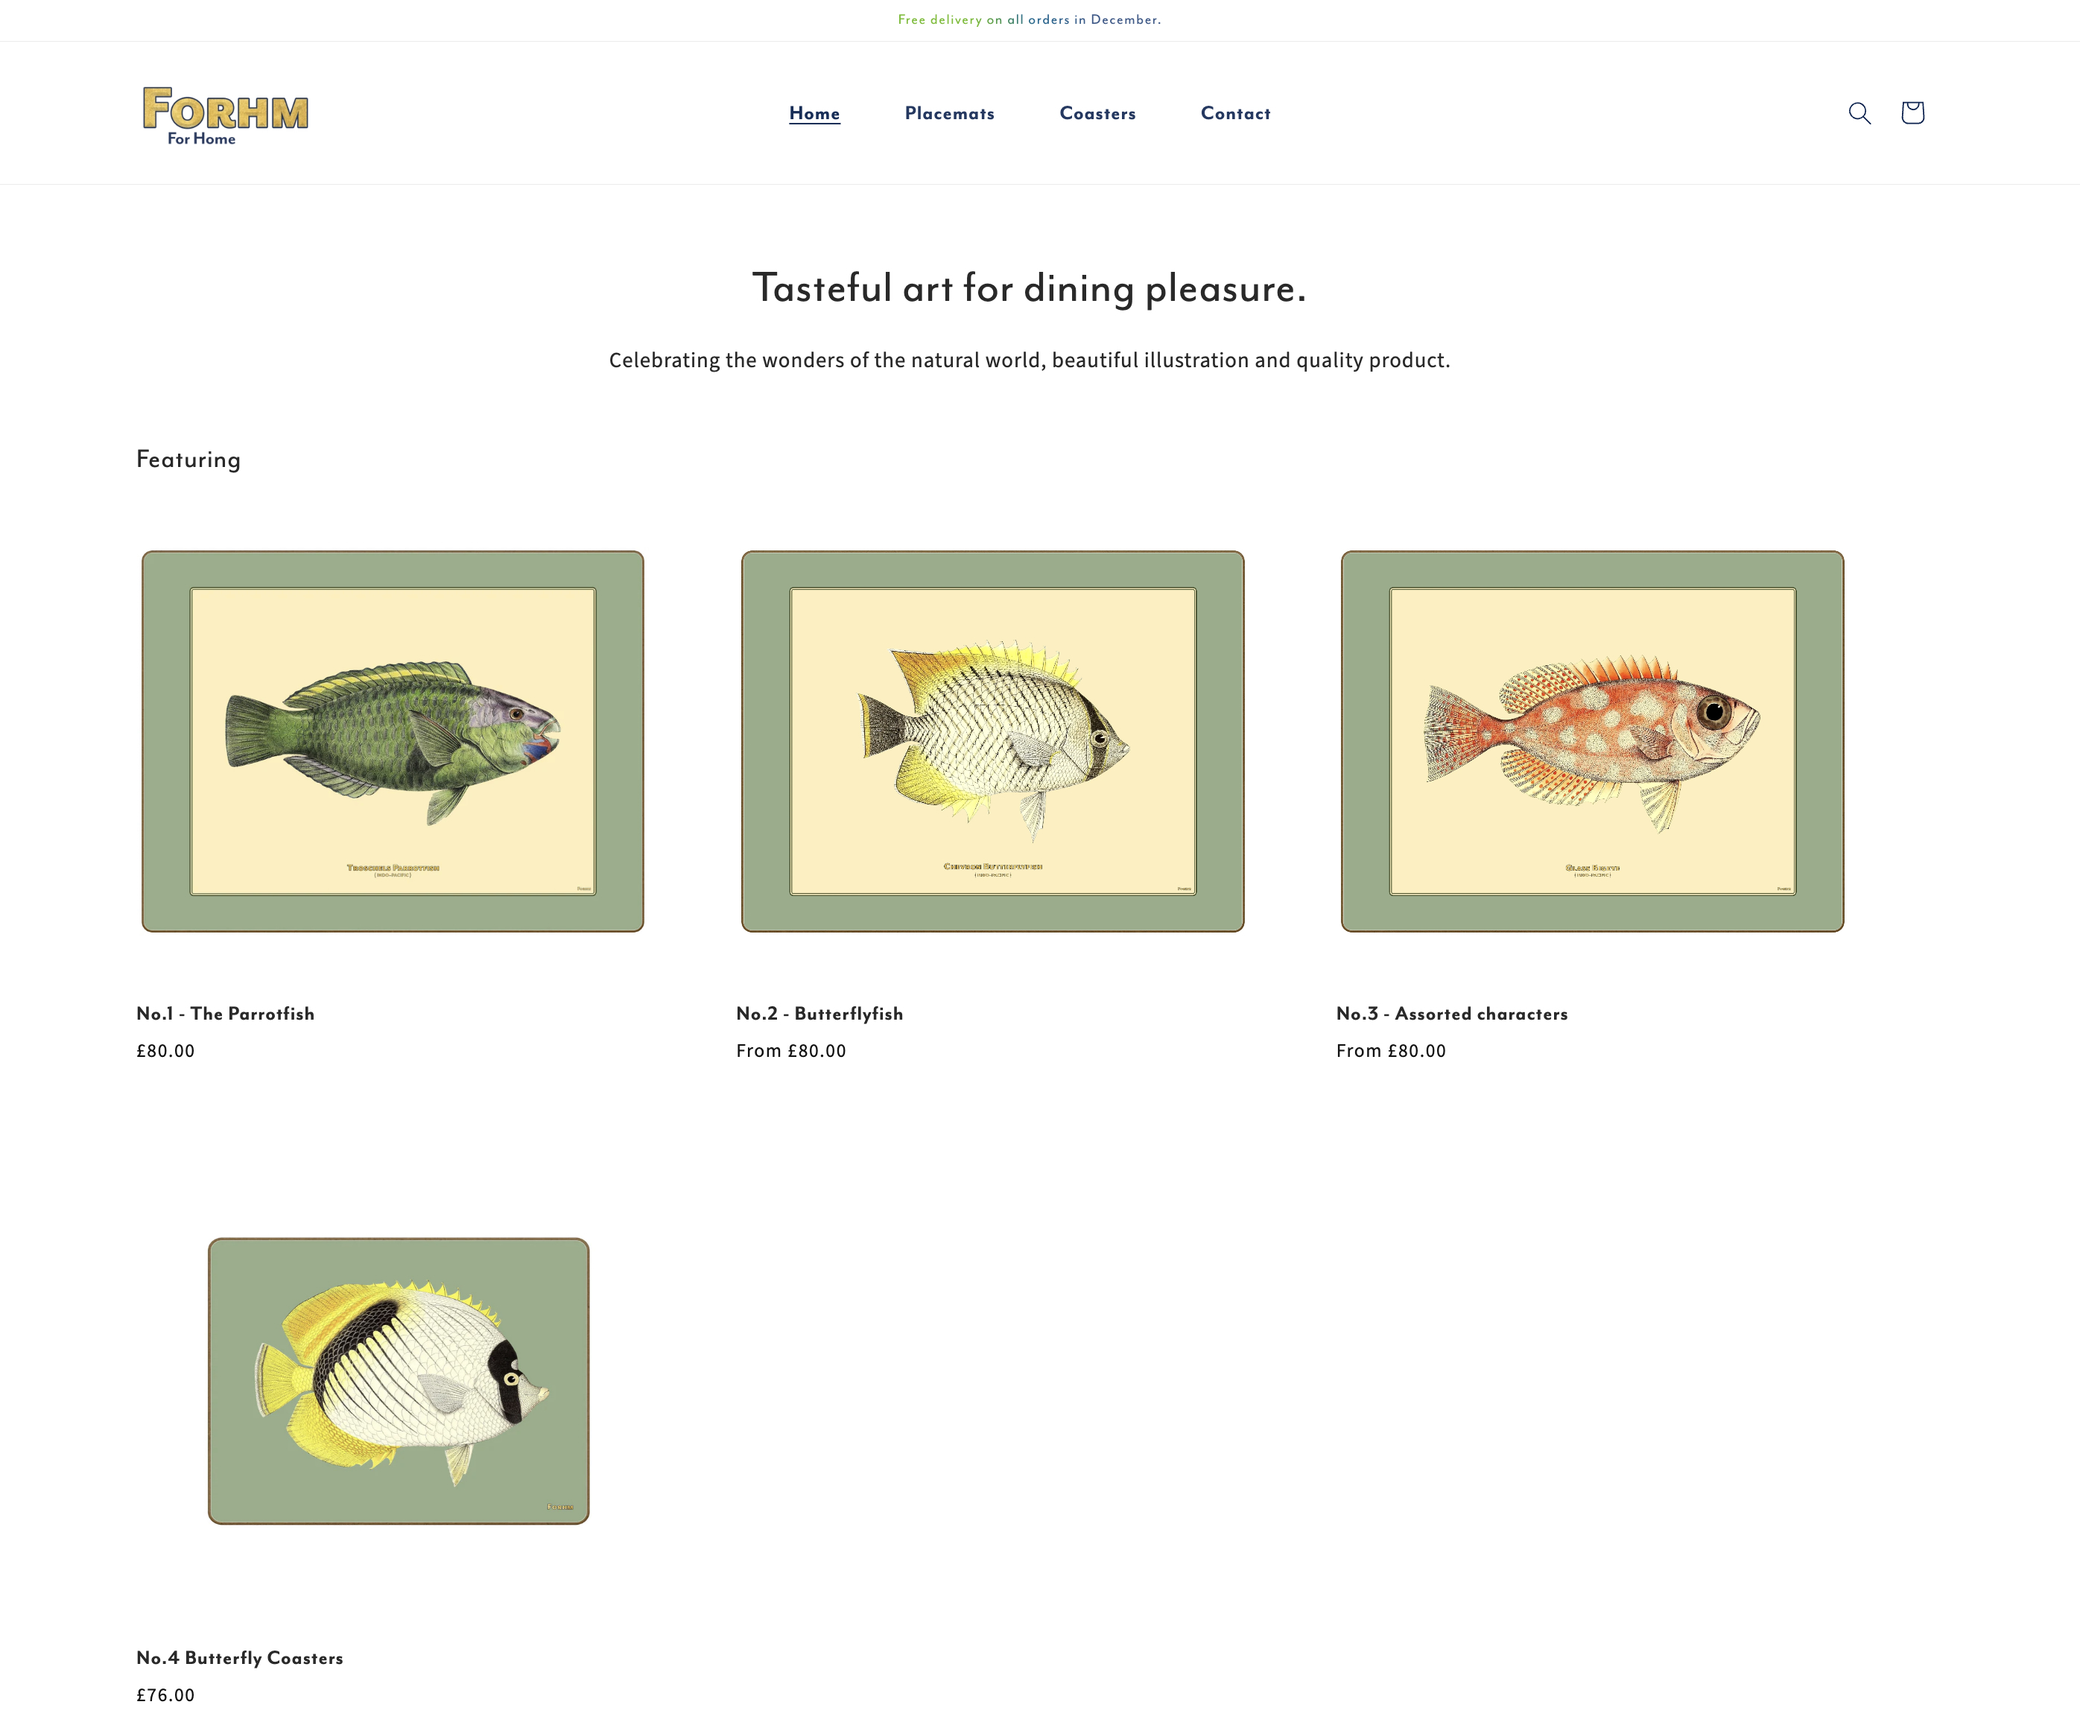
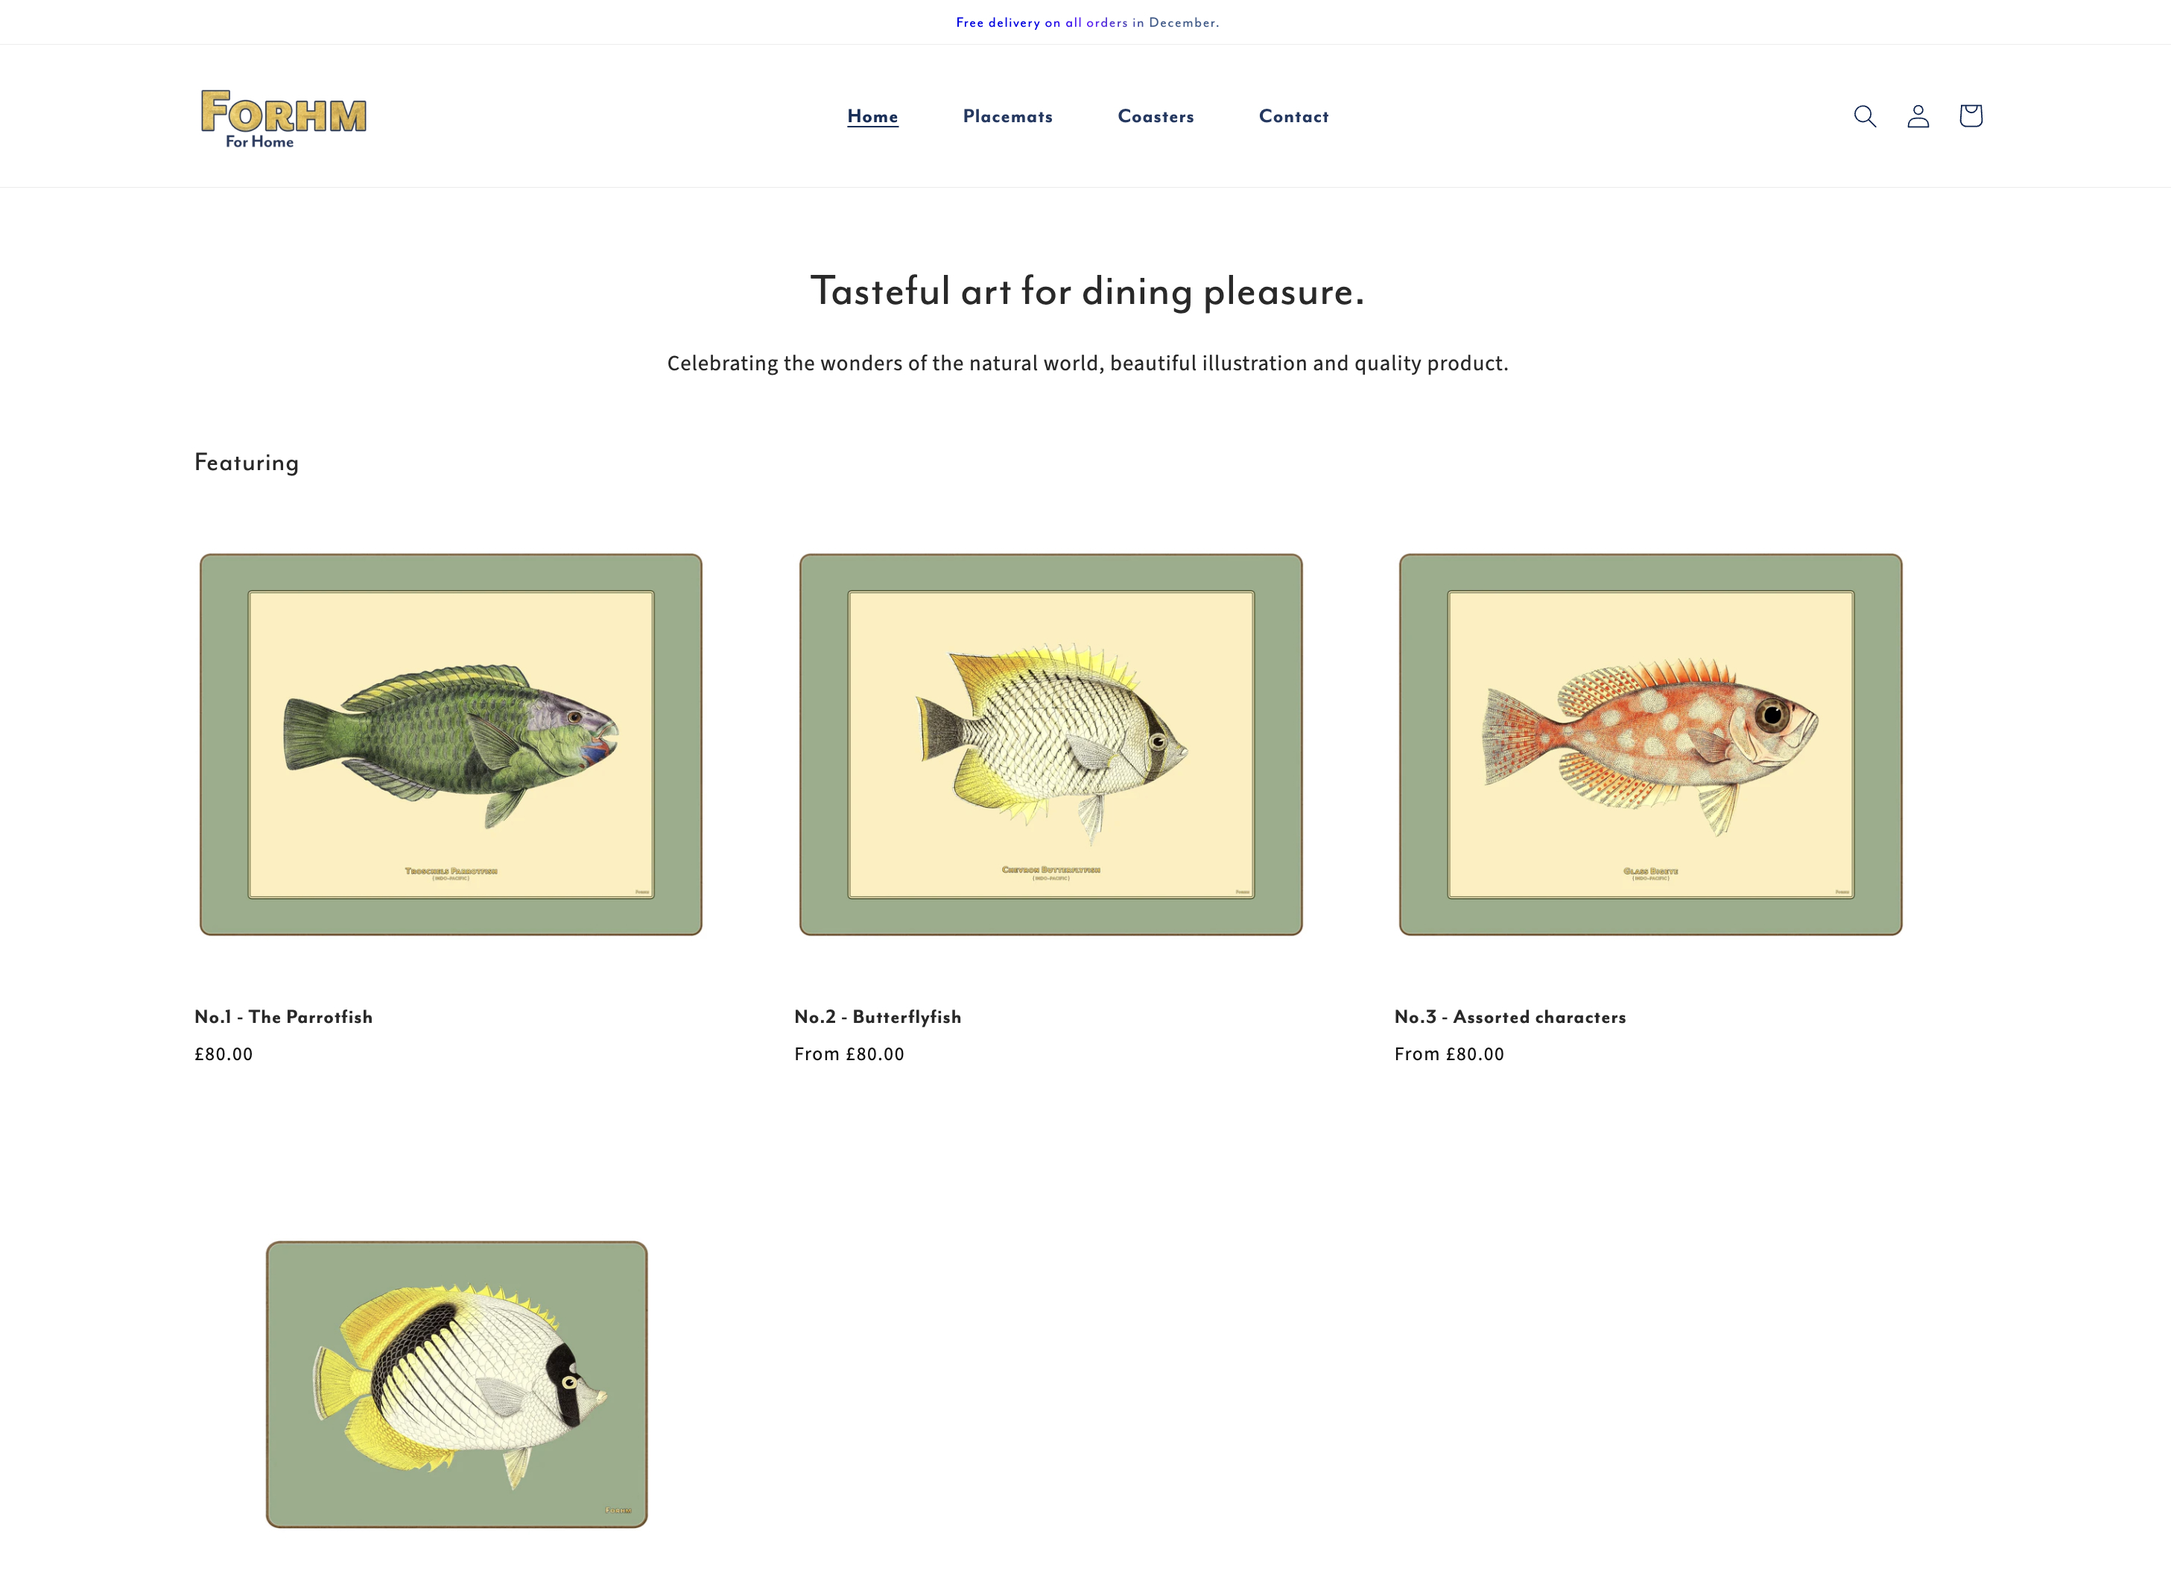
Update Project image dimentions & optimise Project card layout for evenness

diff --git a/src/components/ProjectCarousel.jsx b/src/components/ProjectCarousel.jsx
@@ -1,9 +1,10 @@
 // import flightBooker from '/src/assets/images/project-images/flight-booker.png';
 import fakebook from '/src/assets/images/project-images/fakebook.png';
-import chess from '/src/assets/images/project-images/chess.png';
+import chess from '/src/assets/images/project-images/chess.jpg';
 import waldo from '/src/assets/images/project-images/waldo.png';
 import forhm from '/src/assets/images/project-images/forhm.jpg';
-import ubuntu from '/src/assets/images/project-images/ubuntu.png';
+import battleships from '/src/assets/images/project-images/battleships.jpg';
+import ubuntu from '/src/assets/images/project-images/ubuntu.jpg';
 import { useState, useRef, useEffect } from 'react';
 import { getDataTheme } from '../utils/theme';
 const techFiles = import.meta.glob('../assets/images/technology-images/*.svg', {eager: true, import: 'default'});
@@ -62,7 +63,7 @@ export default function ProjectCarousel() {
         <div className={`flex w-max mx-auto gap-8 snap-x snap-mandatory
           ${projectsInView ? `animate-projects-in` : ``}`}>
 
-          <div id="slide1" className="carousel-item flex flex-col">
+          <div id="slide1" className="carousel-item flex flex-col w-[420px]">
             <div className='rotate-1 p-1'>
               <a href="https://fakebook.bibble.com">
                 <img src={fakebook} className="mx-auto rounded h-[280px] drop-shadow-lg
@@ -84,7 +85,7 @@ export default function ProjectCarousel() {
                   <img src={techLogos['rspec']} alt="rspec logo" className='size-4'/>
                 </div>
               </div>
-              <div className='grid grid-cols-2 gap-5 w-fit mx-auto'>
+              <div className='grid grid-cols-[max-content_max-content] gap-5 justify-center'>
                 <ul className="font-light text-sm">
                   <li className="[&::marker]:content-['•'] [&::marker]:text-[var(--color-teal-dark)]">&nbsp;Complex forms & assoc'ns</li>
                   <li className="[&::marker]:content-['•'] [&::marker]:text-[var(--color-teal-dark)]">&nbsp;ActiveStorage</li>
@@ -98,7 +99,7 @@ export default function ProjectCarousel() {
               </div>
             </div>
           </div>
-          <div id="slide2" className="carousel-item flex flex-col">
+          <div id="slide2" className="carousel-item flex flex-col w-[420px]">
             <div className='-rotate-1 p-1'>
               <a href="https://waldo.bibble.com">
                 <img src={waldo} className="mx-auto rounded h-[280px] drop-shadow-lg
@@ -117,11 +118,11 @@ export default function ProjectCarousel() {
                   <img src={techLogos['rails']} alt="rails logo" className='size-10'/>
                 </div>
               </div>
-              <div className='grid grid-cols-2 gap-5 w-fit mx-auto'>
+              <div className='grid grid-cols-[max-content_max-content] gap-5 justify-center'>
                 <ul className="font-light text-sm">
                   <li className="[&::marker]:content-['•'] [&::marker]:text-[var(--color-teal-dark)]">&nbsp;React Router, Context API</li>
-                  <li className="[&::marker]:content-['•'] [&::marker]:text-[var(--color-teal-dark)]">&nbsp;callbk memo ref nav params</li>
-                  <li className="[&::marker]:content-['•'] [&::marker]:text-[var(--color-teal-dark)]">&nbsp;Custom hooks</li>
+                  <li className="[&::marker]:content-['•'] [&::marker]:text-[var(--color-teal-dark)]">&nbsp;Many React hooks used</li>
+                  <li className="[&::marker]:content-['•'] [&::marker]:text-[var(--color-teal-dark)]">&nbsp;Custom hooks built</li>
                 </ul>
                 <ul className="font-light text-sm">
                   <li className="[&::marker]:content-['•'] [&::marker]:text-[var(--color-teal-dark)]">&nbsp;Rails API + Postgres</li>
@@ -131,7 +132,7 @@ export default function ProjectCarousel() {
               </div>
             </div>
           </div>
-          <div id="slide3" className="carousel-item flex flex-col">
+          <div id="slide3" className="carousel-item flex flex-col w-[420px]">
             <div className='rotate-1 p-1'>
               <a href="https://replit.com/@jbk1/Chess">
                 <img src={chess} className="mx-auto h-[280px] rounded drop-shadow-lg
@@ -150,13 +151,13 @@ export default function ProjectCarousel() {
                   <img src={techLogos['rspec']} alt="rspec logo" className='size-4'/>
                 </div>
               </div>
-              <div className='grid grid-cols-2 gap-5 w-fit mx-auto'>
-                <ul className="font-light text-sm">
+              <div className='grid grid-cols-[max-content_max-content] gap-5 justify-center'>
+                <ul className="font-light text-sm w-fit">
                   <li className="[&::marker]:content-['•'] [&::marker]:text-[var(--color-teal-dark)]">&nbsp;Chess in pure Ruby</li>
                   <li className="[&::marker]:content-['•'] [&::marker]:text-[var(--color-teal-dark)]">&nbsp;Built via TDD & rspec</li>
                   {/* <li className="[&::marker]:content-['•'] [&::marker]:text-[var(--color-teal-dark)]">&nbsp;</li> */}
                 </ul>
-                <ul className="font-light text-sm">
+                <ul className="font-light text-sm w-fit">
                   <li className="[&::marker]:content-['•'] [&::marker]:text-[var(--color-teal-dark)]">&nbsp;Unit & integration tested</li>
                   <li className="[&::marker]:content-['•'] [&::marker]:text-[var(--color-teal-dark)]">&nbsp;Game persistency</li>
                   {/* <li className="[&::marker]:content-['•'] [&::marker]:text-[var(--color-teal-dark)]">&nbsp;</li> */}
@@ -164,7 +165,7 @@ export default function ProjectCarousel() {
               </div>
             </div>
           </div>
-          <div id="slide4" className="carousel-item flex flex-col">
+          <div id="slide4" className="carousel-item flex flex-col w-[420px]">
             <div className='rotate-1 p-1'>
               <a href="https://ubuntu.bibble.com">
                 <img src={ubuntu} className="mx-auto h-[280px] rounded drop-shadow-lg
@@ -185,7 +186,7 @@ export default function ProjectCarousel() {
                   <img src={techLogos['bash-dark']} alt="bash logo" className='size-[22px]'/>
                 </div>
               </div>
-              <div className='grid grid-cols-2 gap-5 w-fit mx-auto'>
+              <div className='grid grid-cols-[max-content_max-content] gap-5 justify-center'>
                 <ul className="font-light text-sm">
                   <li className="[&::marker]:content-['•'] [&::marker]:text-[var(--color-teal-dark)]">&nbsp;Ubuntu provisioning</li>
                   <li className="[&::marker]:content-['•'] [&::marker]:text-[var(--color-teal-dark)]">&nbsp;Server maintenance</li>
@@ -199,7 +200,7 @@ export default function ProjectCarousel() {
               </div>
             </div>
           </div>
-          <div id="slide5" className="carousel-item flex flex-col">
+          <div id="slide5" className="carousel-item flex flex-col w-[420px]">
             <div className="-rotate-1 p-1">
               <a href="https://forhm.com/">
                 <img src={forhm} className="mx-auto h-[280px] rounded drop-shadow-lg
@@ -219,7 +220,7 @@ export default function ProjectCarousel() {
                     alt="shopify logo" className='size-4'/>
                 </div>
               </div>
-              <div className='grid grid-cols-2 gap-5 w-fit mx-auto'>
+              <div className='grid grid-cols-[max-content_max-content] gap-5 justify-center'>
                 <ul className="font-light text-sm">
                   <li className="[&::marker]:content-['•'] [&::marker]:text-[var(--color-teal-dark)]">&nbsp;CSS customisation</li>
                   <li className="[&::marker]:content-['•'] [&::marker]:text-[var(--color-teal-dark)]">&nbsp;HTML customisation</li>
@@ -227,6 +228,39 @@ export default function ProjectCarousel() {
                 <ul className="font-light text-sm">
                   <li className="[&::marker]:content-['•'] [&::marker]:text-[var(--color-teal-dark)]">&nbsp;Vanilla JS</li>
                   <li className="[&::marker]:content-['•'] [&::marker]:text-[var(--color-teal-dark)]">&nbsp;Liquid templating</li>
+                </ul>
+              </div>
+            </div>
+          </div>
+          <div id="slide6" className="carousel-item flex flex-col w-[420px]">
+            <div className="-rotate-1 p-1">
+              <a href="https://battleships.bibble.com/">
+                <img src={battleships} className="mx-auto h-[270px] rounded drop-shadow-lg
+                transition ease-in-out hover:scale-[101%]"/>
+              </a>
+            </div>
+            <div className="mt-5 ml-6 text-[var(--color-text-secondary)]">
+              <div className='flex flex-col items-center'>
+                <h1 className="font-bold text-[var(--color-text-header-secondary)]
+                  [html[data-theme=dark]_&]:text-[var(--color-text-header-primary)]">
+                  Battleships in JS
+                </h1>
+                <div className='flex items-center gap-2 mb-2 mt-[2px] text-[var(--color-text-header-secondary)]'>
+                  <img src={techLogos['javascript']} alt="javascript logo" className='size-4'/>
+                  <p className='text-xs'>+</p>
+                  <img src={techLogos['jest']} alt="jest logo" className='size-4'/>
+                  <p className='text-xs'>+</p>
+                  <img src={techLogos['webpack']} alt="weboack logo" className='size-4'/>
+                </div>
+              </div>
+              <div className='grid grid-cols-[max-content_max-content] gap-5 justify-center'>
+                <ul className="font-light text-sm">
+                  <li className="[&::marker]:content-['•'] [&::marker]:text-[var(--color-teal-dark)]">&nbsp;Written in pure JS</li>
+                  <li className="[&::marker]:content-['•'] [&::marker]:text-[var(--color-teal-dark)]">&nbsp;Full Jest coverage</li>
+                </ul>
+                <ul className="font-light text-sm ">
+                  <li className="[&::marker]:content-['•'] [&::marker]:text-[var(--color-teal-dark)]">&nbsp;Bundled with Webpack</li>
+                  <li className="[&::marker]:content-['•'] [&::marker]:text-[var(--color-teal-dark)]">&nbsp;Nginx served & Dockerised</li>
                 </ul>
               </div>
             </div>
